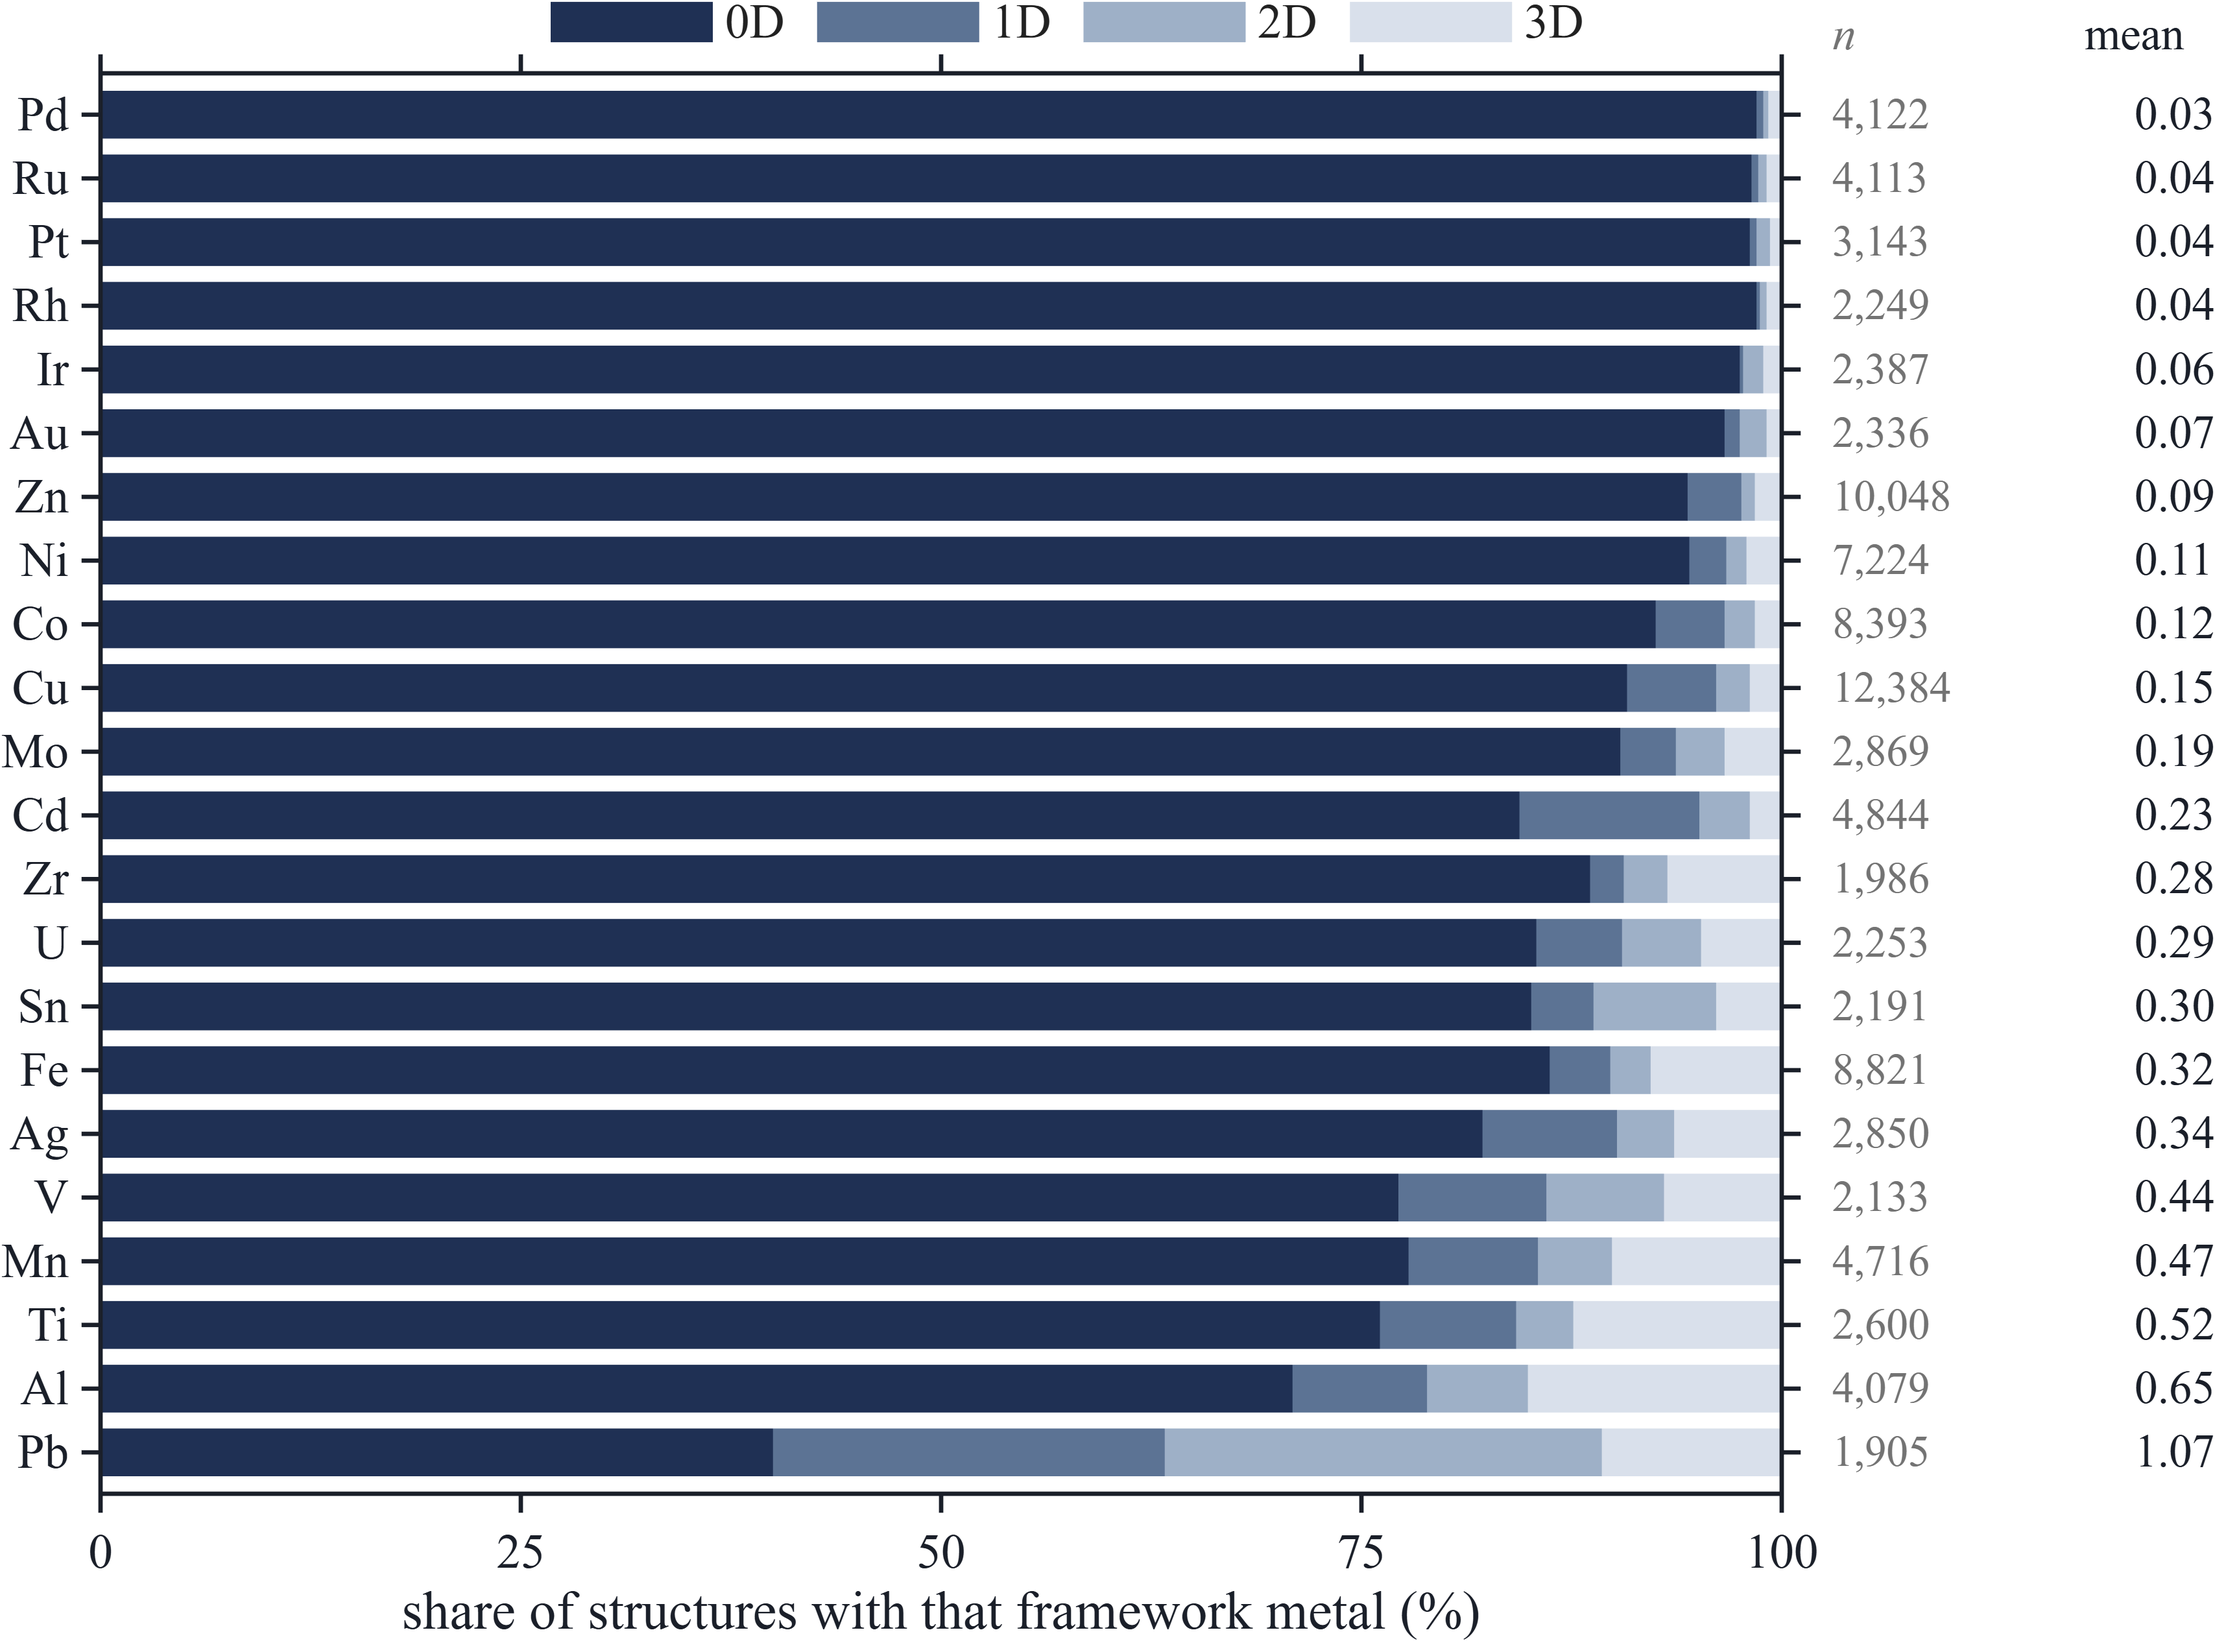
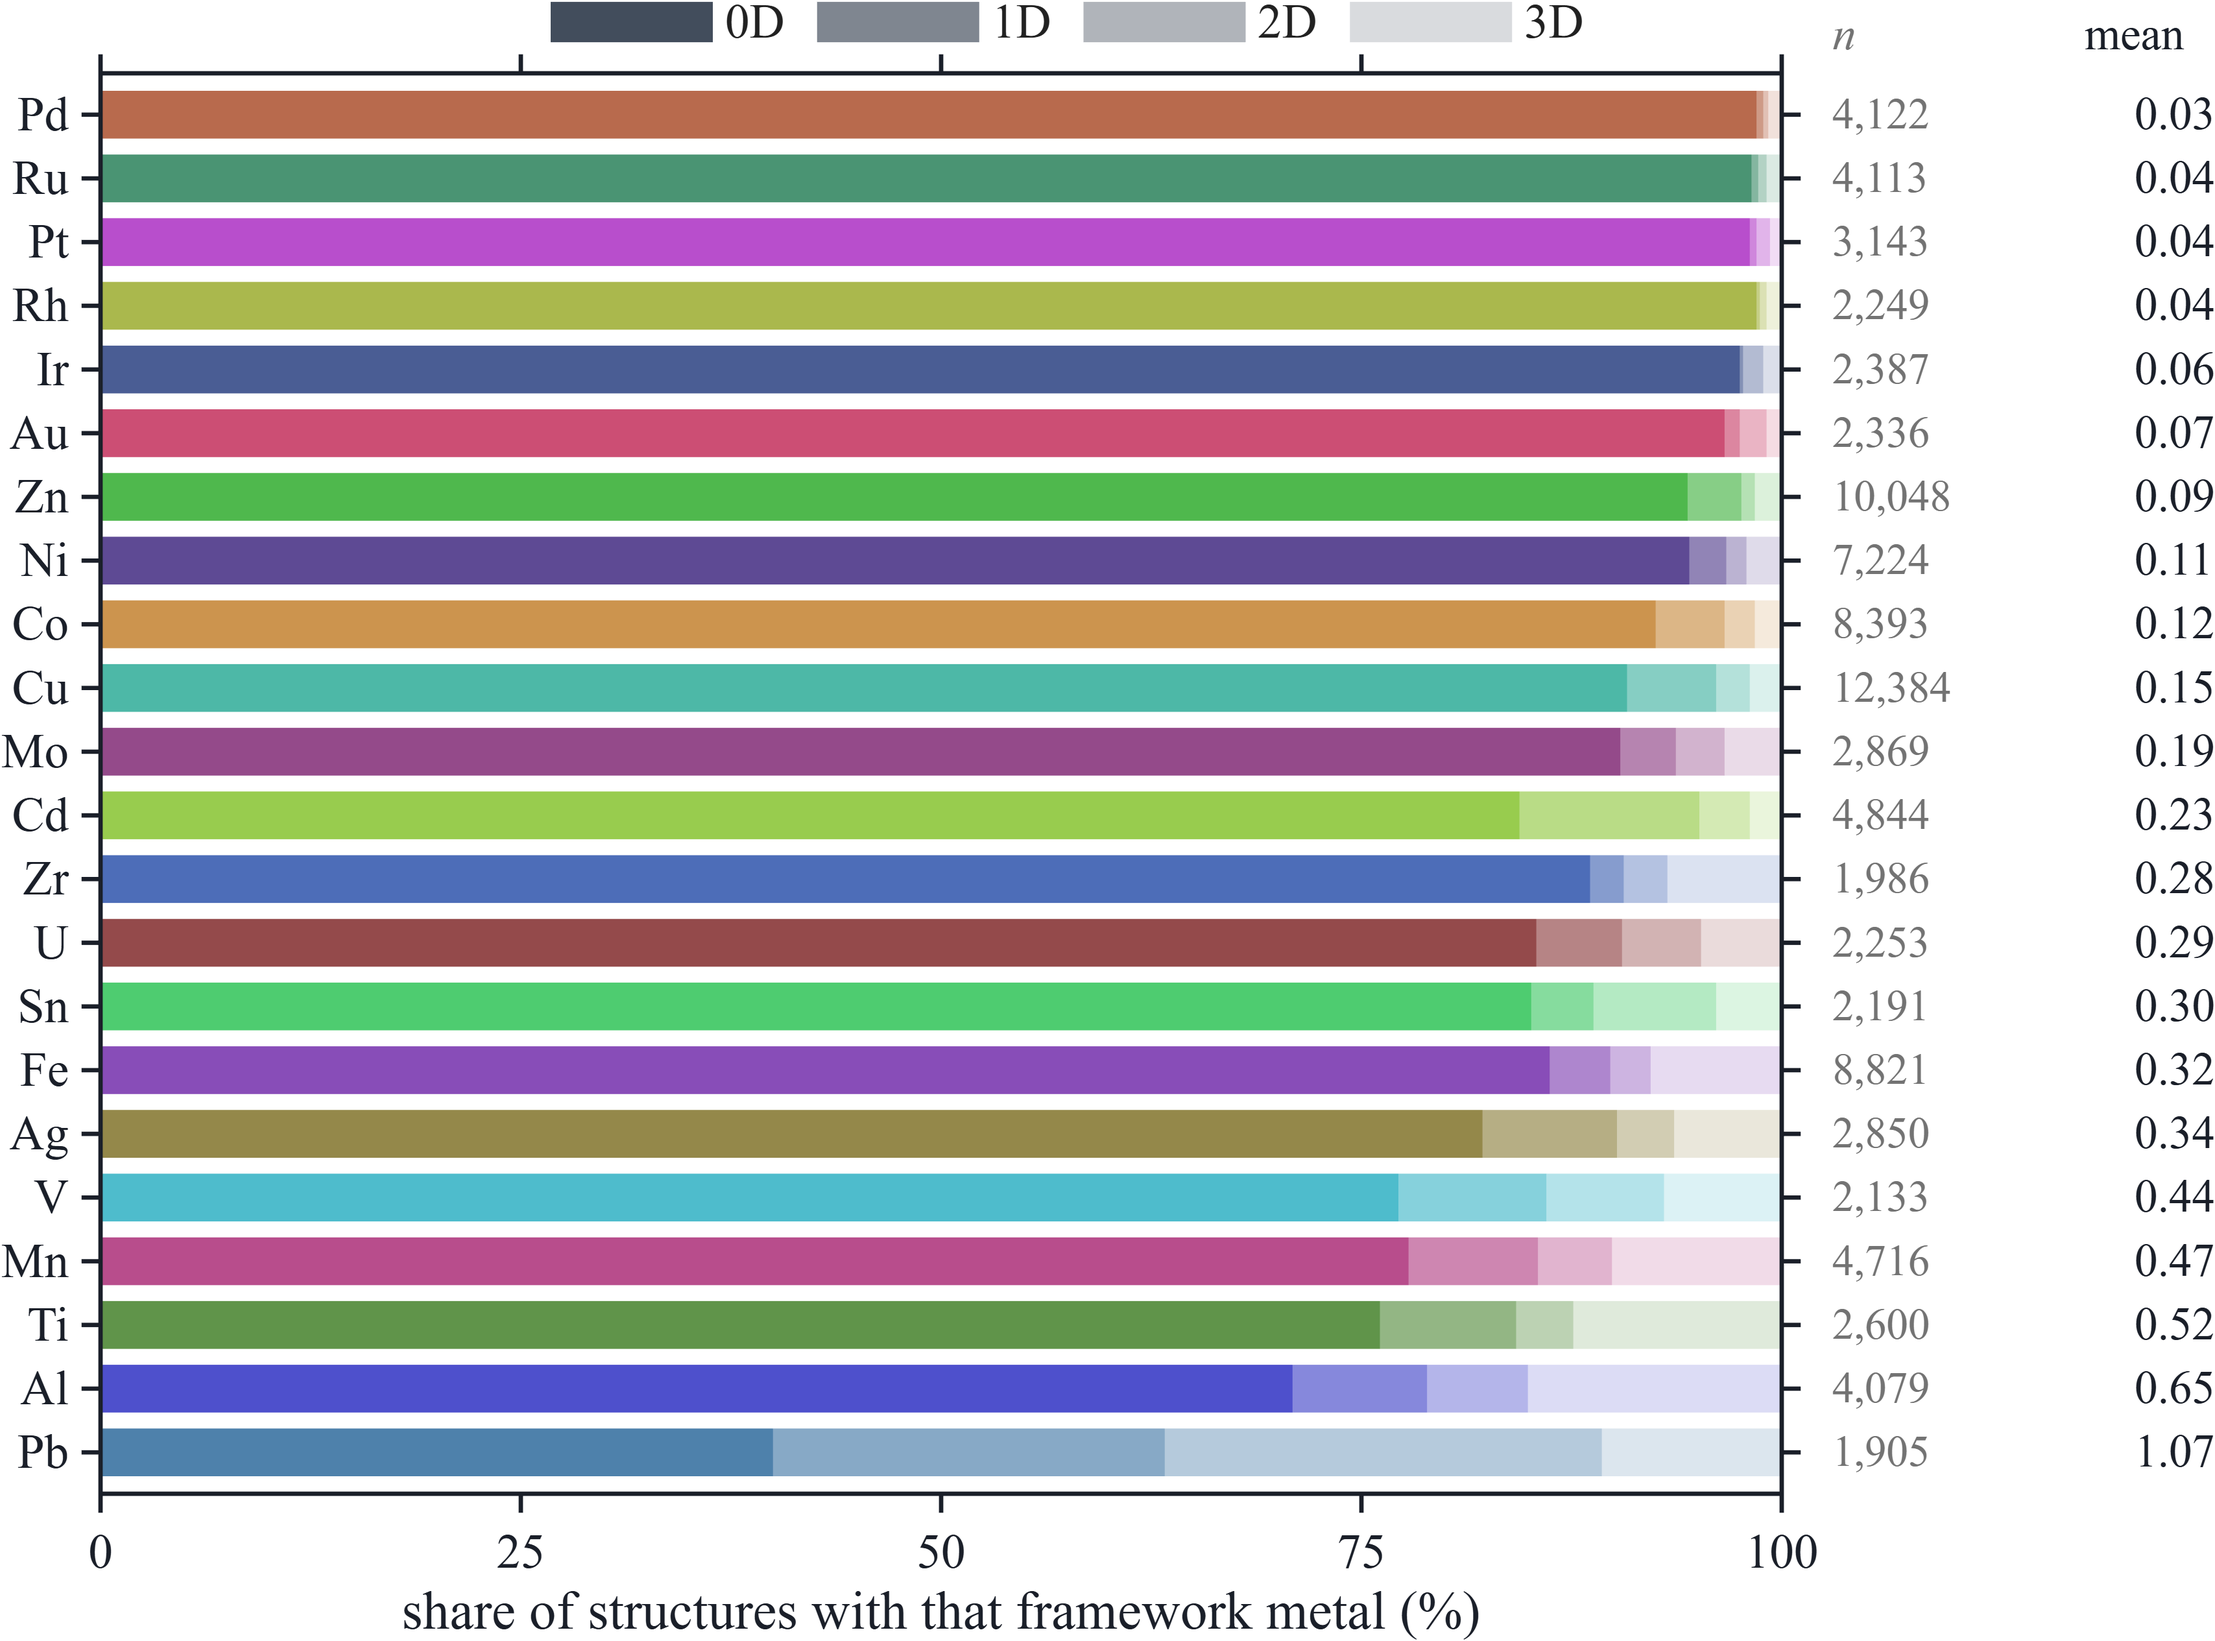
Partial-occupancy test; current figures and panel data
partial_occupancy_test.py re-indexes the 181 sampled disordered structures that
have a site below half occupancy with those sites removed: no integer rank
changes. The figures are now the renders the manuscript uses (the earlier ones
showed the same data in an older style), with the npj_panels.json that drew
Figure 1.

diff --git a/code/partial_occupancy_test.py b/code/partial_occupancy_test.py
@@ -1,0 +1,106 @@
+# -*- coding: utf-8 -*-
+"""Does the majority-species reading of partially occupied sites move the rank?
+
+Uses the same seeded sample of indexed structures as partial_occupancy_sample.py.
+Two checks:
+  1. the rank distribution of the ordered and the disordered structures in the
+     sample, side by side;
+  2. for every disordered structure, the integer rank recomputed after removing
+     each site whose total occupancy is below 0.5, the minor partners of split
+     sites and sparsely occupied positions that the majority-species reading
+     counts as full atoms. Sites at 0.5 and above are kept, so a site shared
+     equally between two positions survives.
+The rank is computed with cod_wide_index.index_structure, as in the database.
+
+    python partial_occupancy_test.py <cod_dimensionality.jsonl.gz> <cif_dir> [n] [out.json]
+"""
+import gzip
+import importlib.util
+import json
+import os
+import random
+import sys
+import warnings
+from collections import Counter
+
+warnings.filterwarnings("ignore")
+SEED = 20261006
+HERE = os.path.dirname(os.path.abspath(__file__))
+
+
+def indexer():
+    for p in (os.path.join(HERE, "cod_wide_index.py"),
+              os.path.join(HERE, "deposit_npj", "code", "cod_wide_index.py")):
+        if os.path.exists(p):
+            spec = importlib.util.spec_from_file_location("cwi", p)
+            m = importlib.util.module_from_spec(spec)
+            spec.loader.exec_module(m)
+            return m
+    raise SystemExit("cod_wide_index.py not found")
+
+
+def cif(root, cod):
+    for p in (os.path.join(root, cod + ".cif"),
+              os.path.join(root, cod[0], cod[1:3], cod[3:5], cod + ".cif")):
+        if os.path.exists(p):
+            return p
+    return None
+
+
+def main():
+    from pymatgen.core import Structure
+    cwi = indexer()
+    db, root = sys.argv[1], sys.argv[2]
+    n = int(sys.argv[3]) if len(sys.argv) > 3 else 1000
+    out = sys.argv[4] if len(sys.argv) > 4 else "partial_occupancy_test.json"
+    rank = {}
+    with gzip.open(db, "rt", encoding="utf-8") as f:
+        for line in f:
+            r = json.loads(line)
+            if "skip" not in r:
+                rank[r["cod"]] = r["d_top"]
+    random.seed(SEED)
+    sample = random.sample(list(rank), n)
+
+    dist = {"ordered": Counter(), "disordered": Counter()}
+    moved, tested, untestable, examples, reindexed = 0, 0, 0, [], 0
+    for cod in sample:
+        st = Structure.from_file(cif(root, cod))
+        grp = "ordered" if st.is_ordered else "disordered"
+        dist[grp][rank[cod]] += 1
+        if grp == "ordered":
+            continue
+        keep = [i for i, s in enumerate(st.sites) if s.species.num_atoms >= 0.5]
+        if len(keep) == len(st):
+            tested += 1                     # nothing below 0.5: same reading
+            continue
+        try:
+            res, _ = cwi.index_structure(Structure.from_sites([st[i] for i in keep]))
+        except Exception:                   # noqa: BLE001
+            res = None
+        if not res:
+            untestable += 1                 # e.g. the anion class itself was minor
+            continue
+        tested += 1
+        reindexed += 1
+        if res["d_top"] != rank[cod]:
+            moved += 1
+            if len(examples) < 10:
+                examples.append([cod, rank[cod], res["d_top"]])
+
+    def pct(c):
+        n = sum(c.values())
+        return {"n": n, **{str(k): round(100 * c[k] / n, 1) for k in range(4)}}
+    res = {"sampled": n, "distribution_pct": {k: pct(v) for k, v in dist.items()},
+           "disordered_tested": tested, "disordered_reindexed_without_minor_sites": reindexed,
+           "disordered_untestable": untestable,
+           "rank_moved": moved,
+           "rank_moved_pct_of_tested": round(100 * moved / tested, 1) if tested else None,
+           "examples": examples}
+    json.dump(res, open(out, "w", encoding="utf-8"), indent=1)
+    print(json.dumps({k: v for k, v in res.items() if k != "examples"}, indent=1))
+    print("examples", examples)
+
+
+if __name__ == "__main__":
+    main()

diff --git a/README.md b/README.md
@@ -82,6 +82,7 @@ Fields per record:
 | `composition_ceiling.py` | the ceiling on any composition-only model, from compositions deposited at more than one rank |
 | `npj_figdata.py` | panel data for Figure 2 |
 | `mksi.py` | builds the Supporting Information tables from the files in data/ |
+| `partial_occupancy_test.py` | re-indexes the sampled disordered structures without sites below half occupancy |
 | `partial_occupancy_sample.py` | share of indexed structures with partially occupied sites, from a random sample |
 | `make_summaries.py` | rebuilds the summary files below from the per-structure data, including the Figure 5 classification |
 | `bandwidth_ci.py` | analytic and bootstrap intervals on the bandwidth slopes |
@@ -114,6 +115,7 @@ Fields per record:
 | `composition_ml.json` | accuracy and per-rank recall of the composition classifier |
 | `speed.json` | per-structure parse and index times on 464 structures of the companion's validation set |
 | `kpoints_style.json` | k-point grid style (Γ-centred 314, Monkhorst-Pack 46) of each single-point input |
+| `partial_occupancy_test.json` | 181 disordered structures re-indexed without minor sites, no rank changed; ordered and disordered rank distributions |
 | `partial_occupancy_sample.json` | 371 of 1,000 sampled indexed structures carry partially occupied sites |
 | `anion_choice_dropouts.json` | the composition of the 1,500-structure sample: 1,113 competing classes, 352 none, 35 unreadable or unresolved |
 | `layered_query.json` | the corroborated layered compositions and their counts |
@@ -124,7 +126,7 @@ Fields per record:
 
 ### figures
 
-The five rendered figures at 600 d.p.i.; the json they are drawn from is in data/. The
+The five rendered figures, as in the manuscript, at 600 d.p.i. or more; the json they are drawn from is in data/. The
 plotting scripts themselves are MATLAB and are not distributed; every number they draw is
 in data/ and code/.
 
@@ -170,7 +172,9 @@ is involved.
 Cells containing more than 90 metal centres are declined rather than evaluated. Partial
 occupancies are read as each site's majority species, without enumerating orderings;
 37 per cent of indexed structures carry them (95 per cent interval 34 to 40, from a
-random sample of 1,000; partial_occupancy_sample.py); the electronic-structure sample is
+random sample of 1,000; partial_occupancy_sample.py), and removing every site below half
+occupancy from the 181 of them that have one changes no integer rank
+(partial_occupancy_test.py); the electronic-structure sample is
 restricted to ordered structures for that reason. The index describes the sublattice it
 is given and makes no claim about the rest of the structure.
 
